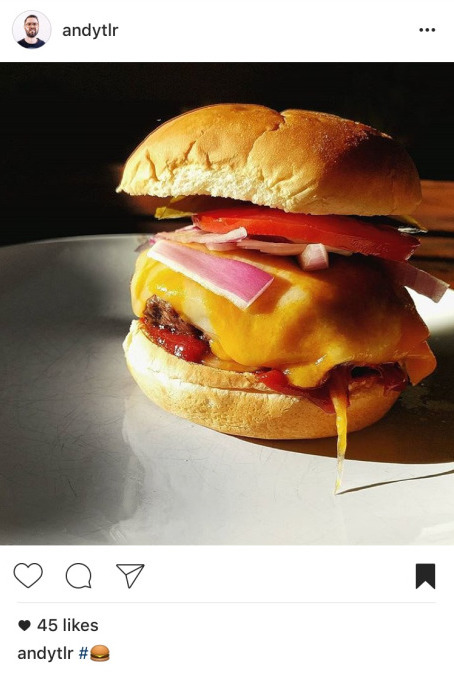
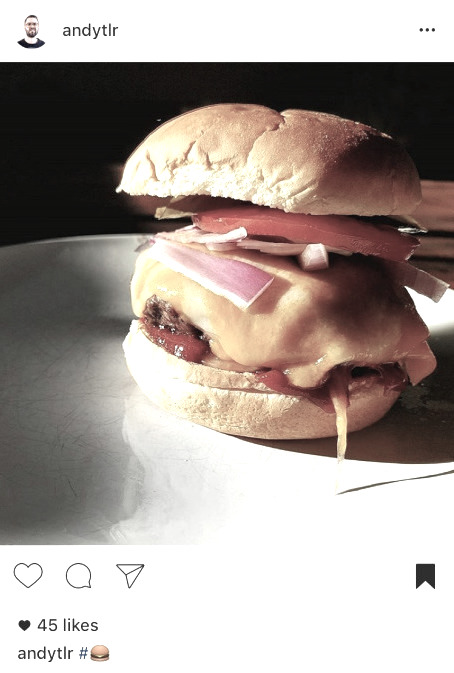
adjusting color scheme with lightly purple greys

diff --git a/index.html b/index.html
@@ -21,9 +21,9 @@
     <div class="navigation-buttons">
       <a href="#">Home</a>
       <a href="#About">About</a>
-      <a href="#">Service</a>
-      <a href="#">Clients</a>
-      <a href="#">Contact</a>
+      <a href="#Services">Service</a>
+      <a href="#Clients">Clients</a>
+      <a href="#Contact">Contact</a>
     </div>
   </nav>
   <!-- header section with background image -->
@@ -46,7 +46,7 @@
     </div>
 
     <!-- section containing 3 general services offered -->
-    <div class="services-container">
+    <div id="Services" class="services-container">
 
       <div class="service service-networking">
         <div class="service-networking-icon">
@@ -81,7 +81,7 @@
     </div>
 
     <!-- will contain video when up and running -->
-      <div class="featured-video-container">
+      <div id="Video" class="featured-video-container">
           <div class="filter"></div>
           <video autoplay loop class="fillWidth">
               <source src="resources/images/The-Alley.webm" type="video/webm" />Your browser does not support the video tag. I suggest you upgrade your browser.
@@ -89,7 +89,7 @@
       </div>
 
 
-    <div class="clients-overall-container">
+    <div id="Clients" class="clients-overall-container">
       <h3 class="clients-title">CLIENTS</h3>
       <div class="clients-container">
         <div class="client"><img src="resources/images/clienttest.jpg" alt="client testing data"></div>

diff --git a/resources/css/index.css b/resources/css/index.css
@@ -64,7 +64,7 @@ html, body{
 .clients-overall-container,
 .personal-instagram-container {
   min-height: 600px;
-  background-color: #303030;
+  background-color: #353239;
   border-bottom: 2px solid black;
   display: flex;
 }
@@ -151,7 +151,7 @@ html, body{
 .featured-video-container .filter {
   z-index: 20;
   position: absolute;
-  background: rgba(0, 0, 0, 0.6);
+  background: rgba(53, 50, 57, 0.7);
   width: 100%;
   height: 100%;
 }
@@ -167,7 +167,9 @@ html, body{
 }
 /* ************   CLIENTS   ********************** */
 .clients-overall-container {
-  justify-content: space-around;
+  background-image: url("../images/backgroundgrafittihallway.jpg");
+  background-repeat:  no-repeat;
+  background-size:  cover;
   flex-direction: column;
   text-align: center;
 }
@@ -185,7 +187,7 @@ html, body{
   align-content: center;
 }
 .client img {
-  opacity: .6;
+  opacity: .8;
   height: 300px;
   transition: all .75s ease-in-out;
   -webkit-transition: all .75s ease;
@@ -266,6 +268,11 @@ html, body{
   .clients-overall-container,
   .personal-instagram-container {
     min-height: 800px;
+  }
+  .about-me-title,
+  .clients-title,
+  .instagram-title {
+    font-size: 32px;
   }
   /* *************  SERVICES ****************** */
   .service {
